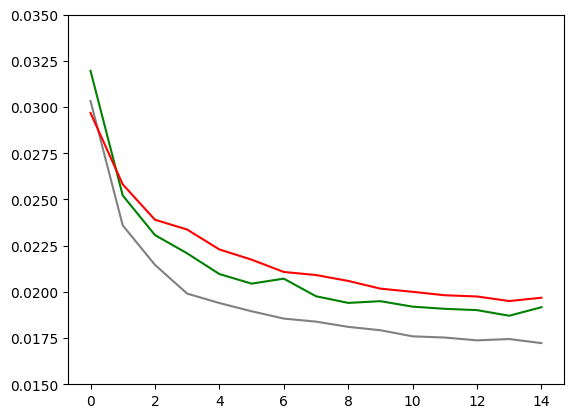
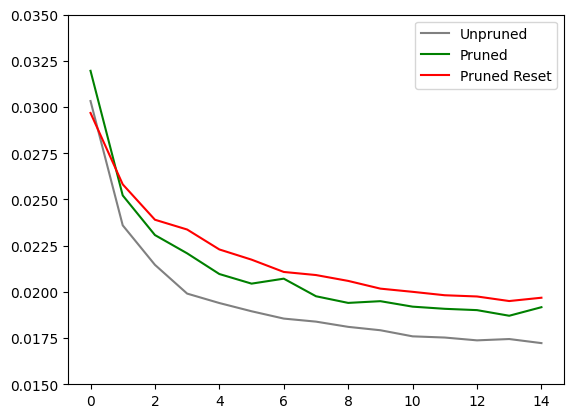
Add plot legend

diff --git a/evaluation/plot_retrain_results.py b/evaluation/plot_retrain_results.py
@@ -6,10 +6,10 @@ import matplotlib.pyplot as plt
 from utils.ensure_correct_folder import change_working_dir
 
 
-def plot_single(data, color):
+def plot_single(data, color, label=None):
     xs = [x[0] for x in data]
     ys = [x[2] for x in data]
-    plt.plot(xs, ys, color=color)
+    plt.plot(xs, ys, color=color, label=label)
 
 
 def plot_acc_over_time_multiple_drawings(run_id, ratio):
@@ -22,19 +22,20 @@ def plot_acc_over_time_multiple_drawings(run_id, ratio):
         # always plot the unpruned retraining run in grey
         unpruned_key = [x for x in graph_data.keys() if x.startswith("None")][0]
         unpruned_data = graph_data[unpruned_key]
-        plot_single(unpruned_data, "grey")
+        plot_single(unpruned_data, "grey", "Unpruned")
 
         # plot the various pruned runs of this ratio
         relevant_keys = [x for x in graph_data.keys() if x.startswith(f"{ratio}-")]
         for idx, key in enumerate(relevant_keys):
+            label = f"Drawn from epoch {key.split('-')[1]}"
             color = cmap(idx / len(relevant_keys))
             print(key, color)
-            plot_single(graph_data[key], color)
+            plot_single(graph_data[key], color, label)
 
         plt.gca().set_ylim([0.015, 0.035])
+        plt.legend()
         plt.savefig(f"graphs/{run_id}-{ratio}.png", bbox_inches="tight")
         plt.show()
-
 
 
 if __name__ == '__main__':

diff --git a/evaluation/plot_mask_distance.py b/evaluation/plot_mask_distance.py
@@ -6,8 +6,11 @@ import matplotlib.pyplot as plt
 
 from procedures.draw_channel_pruning import mask_dist
 from settings.prune_settings import *
+from utils.ensure_correct_folder import change_working_dir
 
-run_id = "lre3"
+change_working_dir()
+
+run_id = "d374677b9"
 
 files = os.listdir(f"runs/{run_id}")
 
@@ -19,7 +22,7 @@ fig.tight_layout()
 PRUNE_RATIOS.sort()
 
 for idx_r, r in enumerate(PRUNE_RATIOS):
-    ratio_files = [f for f in files if f.startswith(f"keep-{r}-")]
+    ratio_files = [f for f in files if f.startswith(f"keep-{r}-")][:12*4]
 
     def get_epoch_and_iter(x: str):
         x = x.removesuffix(".pth")
@@ -32,10 +35,10 @@ for idx_r, r in enumerate(PRUNE_RATIOS):
     dists = torch.zeros((len(ratio_files), len(ratio_files)), dtype=torch.float)
 
     for idx_a, a in enumerate(ratio_files):
-        a = torch.load(f"runs/{run_id}/{a}")
+        a = torch.load(f"runs/{run_id}/{a}", map_location=torch.device('cpu'))
         for idx_b, b in enumerate(ratio_files):
             if idx_b > idx_a:
-                b = torch.load(f"runs/{run_id}/{b}")
+                b = torch.load(f"runs/{run_id}/{b}", map_location=torch.device('cpu'))
                 dist = mask_dist(a, b)
                 # normalise based on max hamming distance, and ratio
                 total_dist = sum(dist) / sum([torch.numel(x) for x in a]) / min(1, 2*r)

diff --git a/evaluation/pruning_vis.py b/evaluation/pruning_vis.py
@@ -17,7 +17,7 @@ def get_square_coords(bn_idx, single_idx, im_height, bn_mask):
 
 
 def mask_to_png(mask):
-    mask = torch.load(mask)
+    mask = torch.load(mask, map_location=torch.device('cpu'))
     bn_count = len(mask)
     most_channels = max(map(len, mask))
 
@@ -51,10 +51,9 @@ def mask_to_png(mask):
 
 if __name__ == '__main__':
     change_working_dir()
-    run_id = "withbn"
 
-    mask_to_png("runs/withbn/keep-0.5-epoch-0-4.pth")
-    mask_to_png("runs/withbn/keep-0.5-epoch-4-4.pth")
+    # mask_to_png("runs/d374677b9/keep-0.5-epoch-0-4.pth")
+    mask_to_png("runs/d374677b9/keep-0.75-epoch-5-4.pth")
     # masks = list(filter(lambda x: x.startswith("keep"), os.listdir(f"runs/{run_id}")))
     # masks = [f"runs/{run_id}/{x}" for x in masks]
     #

diff --git a/evaluation/plot_reinit_results.py b/evaluation/plot_reinit_results.py
@@ -20,9 +20,11 @@ def plot_acc_over_time_with_without_reinit(run_id, ratio):
         graph_data: Dict = json.loads(read_file.read())
 
         for key, data in graph_data.items():
-            plot_single(data, colors[key])
+            label = key.replace("_", " ").title()
+            plot_single(data, colors[key], label)
 
         plt.gca().set_ylim([0.015, 0.035])
+        plt.legend()
         plt.savefig(f"graphs/reset-{run_id}-{ratio}.png", bbox_inches="tight")
         plt.show()
 

diff --git a/experiments/retrain_tickets.py b/experiments/retrain_tickets.py
@@ -4,9 +4,6 @@ import os
 import torch
 from torch.nn import MSELoss
 from torch.optim import Adam
-from torch.utils.data import DataLoader
-from torchvision.datasets import FashionMNIST
-from torchvision.transforms import ToTensor
 
 from models.conv_ae import ConvAE
 from procedures.test import test

diff --git a/experiments/progressive_mask_drawing.py b/experiments/progressive_mask_drawing.py
@@ -7,7 +7,6 @@ from torch.nn import MSELoss
 from torch.optim import Adam
 from torch.utils.data import DataLoader
 
-from eval.eval import eval_network
 from models.conv_ae import ConvAE
 from procedures.draw_channel_pruning import find_channel_mask
 from procedures.test import test
